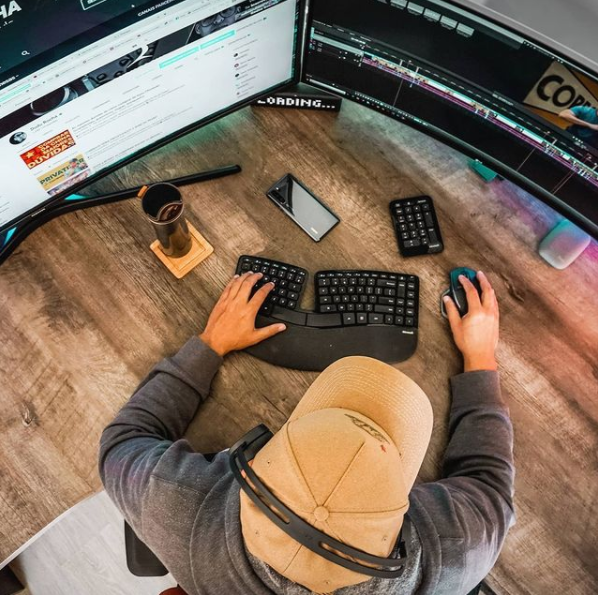
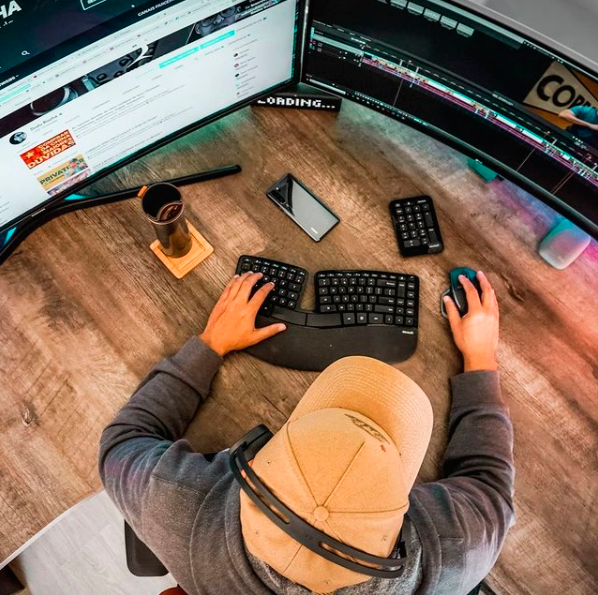
Bajando peso de las imagenes

diff --git a/index.html b/index.html
@@ -14,6 +14,7 @@
   <link rel="stylesheet" href="https://cdnjs.cloudflare.com/ajax/libs/animate.css/4.1.1/animate.min.css" />
   <link href="https://unpkg.com/aos@2.3.1/dist/aos.css" rel="stylesheet">
   <!-- <script src="https://kit.fontawesome.com/271df445e8.js"></script> -->
+  <link rel="icon" type="image/png" href="media/img/logo/favIcon.png">
   <title>My Setup - Home Office and Gaming</title>
 </head>
 

diff --git a/css/estilos.css b/css/estilos.css
@@ -8,7 +8,12 @@
 
 body {
   font-family: "Roboto", sans-serif;
-  font-size: 16px; }
+  font-size: 16px;
+  height: 100%;
+  min-height: 100vh;
+  display: flex;
+  flex-direction: column;
+  justify-content: space-between; }
 
 h1, h2 {
   font-size: 2.5rem;

diff --git a/scss/estilos.scss b/scss/estilos.scss
@@ -20,6 +20,11 @@
 body {
   font-family:$fontRoboto;
   font-size:16px;
+  height: 100%;
+  min-height: 100vh;
+  display: flex;
+  flex-direction: column;
+  justify-content: space-between;
   //overflow-x: hidden;//hack animaciones scroll 
 }
 h1, h2 {
